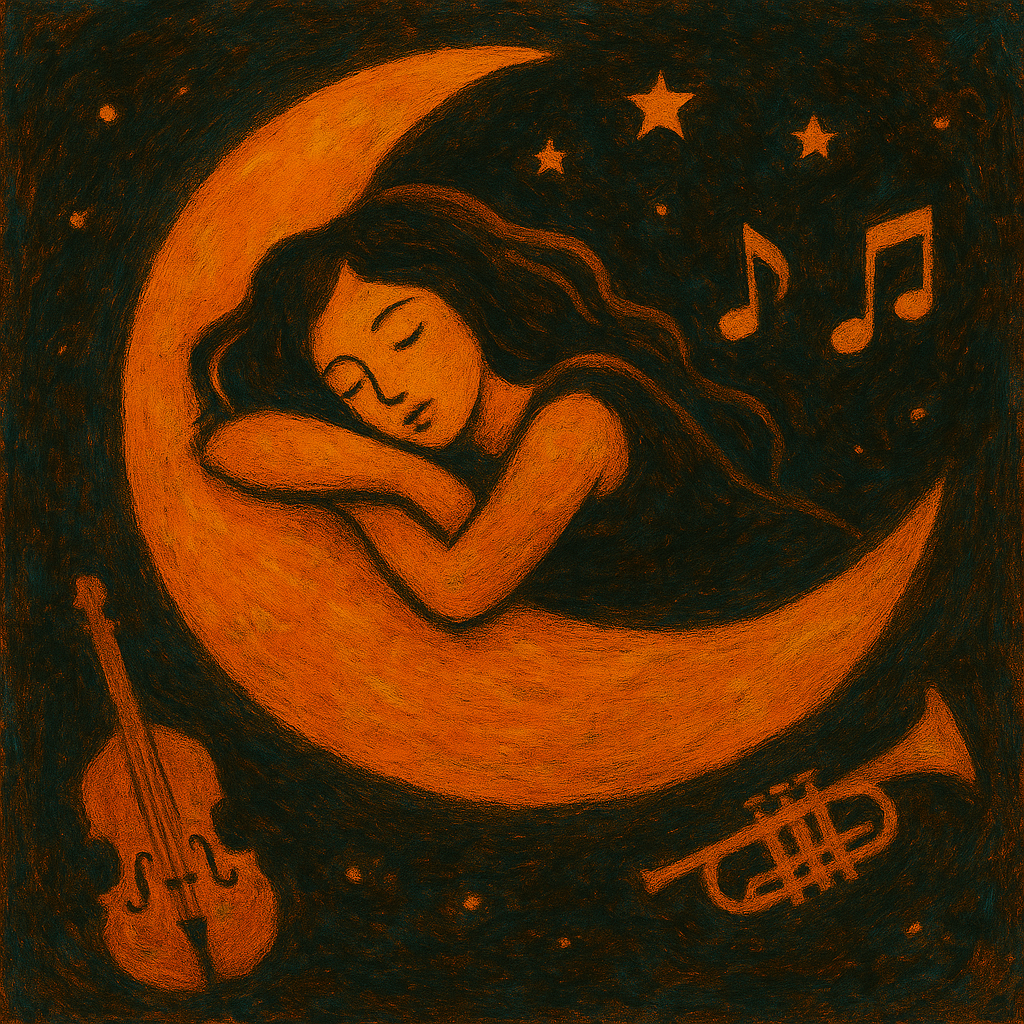
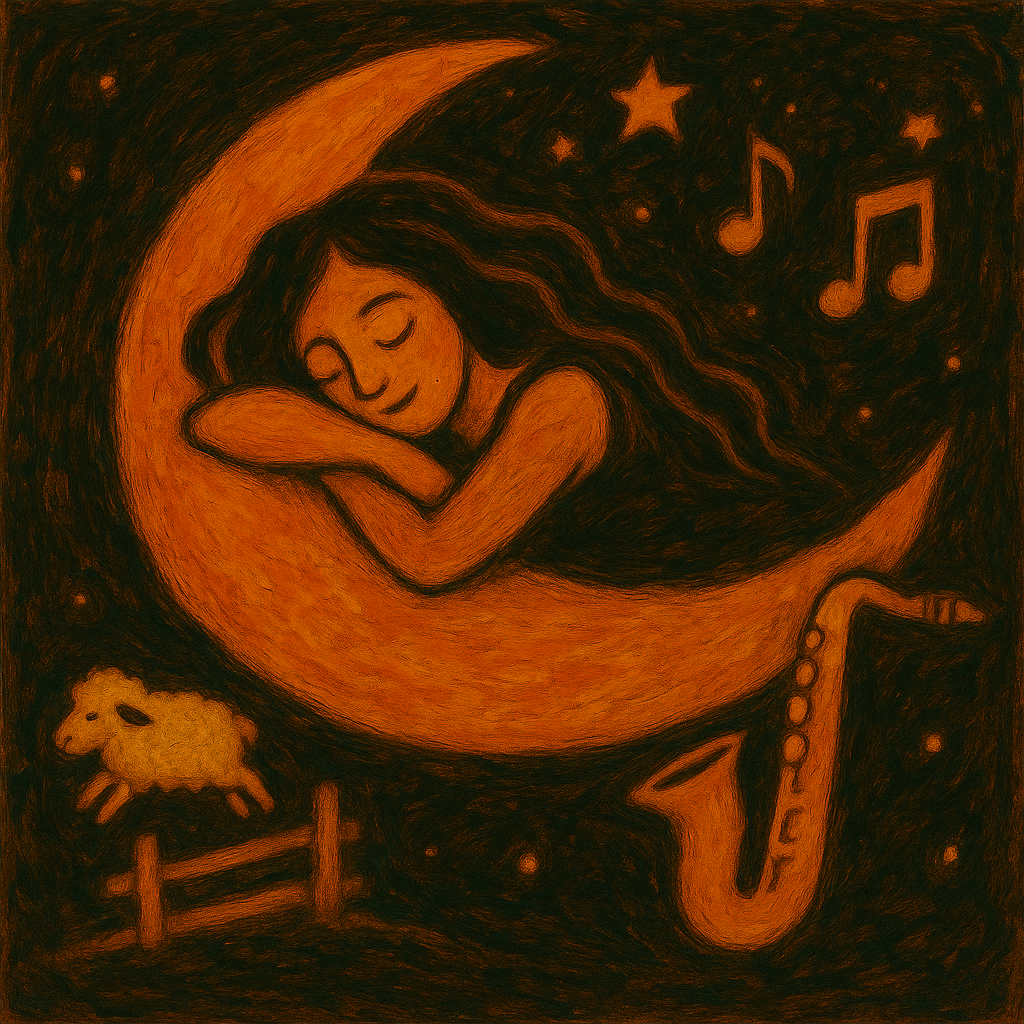
updated cover of ninna nanna jazz and minor fix (3.3.9)

diff --git a/index.html b/index.html
@@ -119,7 +119,7 @@
 
     <!-- [9] VERSION FOOTER -->
     <div class="version-footer">
-      <small>v<span id="appVersion">3.3.7</span></small>
+      <small>v<span id="appVersion">3.3.9</span></small>
     </div>
   </div>
 
